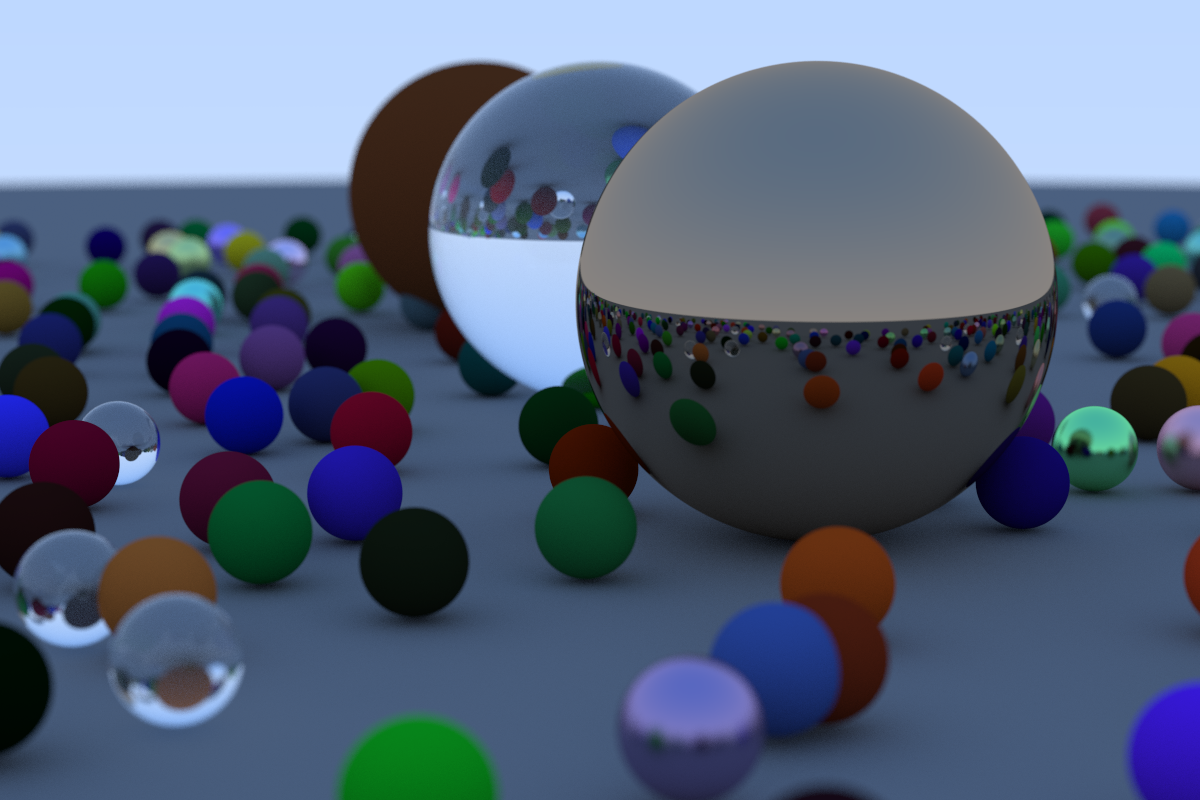
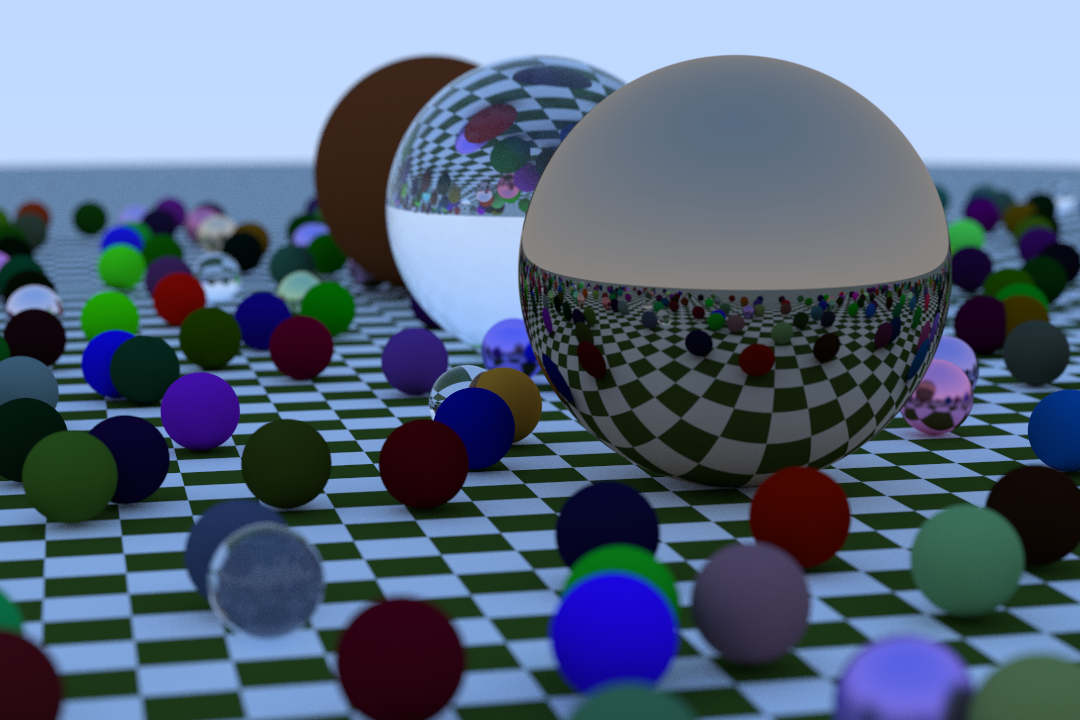
Add Checker texture

diff --git a/src/main.rs b/src/main.rs
@@ -15,6 +15,7 @@ use shimmer::renderer::Renderer;
 use glam::{dvec3, DVec3};
 
 use rand::random;
+use shimmer::textures::checker::Checker;
 use std::rc::Rc;
 use std::time::Instant;
 
@@ -53,7 +54,11 @@ fn main() {
 fn random_spheres() -> HittableList {
     let mut world = HittableList::new();
 
-    let material_ground = Rc::new(Lambertian::from_color(dvec3(0.5, 0.5, 0.5)));
+    let material_ground = Rc::new(Lambertian::new(Rc::new(Checker::from_color(
+        10.0,
+        dvec3(0.2, 0.3, 0.1),
+        dvec3(0.9, 0.9, 0.9),
+    ))));
     world.add(Rc::new(Sphere::new(
         DVec3::new(0.0, -1000.0, 0.0),
         1000.0,
@@ -117,7 +122,11 @@ fn random_spheres() -> HittableList {
 fn random_spheres_moving() -> HittableList {
     let mut world = HittableList::new();
 
-    let material_ground = Rc::new(Lambertian::from_color(dvec3(0.5, 0.5, 0.5)));
+    let material_ground = Rc::new(Lambertian::new(Rc::new(Checker::from_color(
+        10.0,
+        dvec3(0.2, 0.3, 0.1),
+        dvec3(0.9, 0.9, 0.9),
+    ))));
     world.add(Rc::new(Sphere::new(
         DVec3::new(0.0, -1000.0, 0.0),
         1000.0,

diff --git a/src/textures/checker.rs b/src/textures/checker.rs
@@ -1,0 +1,37 @@
+use std::rc::Rc;
+
+use glam::DVec3;
+
+use super::{solid_color::SolidColor, texture::Texture};
+
+pub struct Checker {
+    scale: f64,
+    even: Rc<dyn Texture>,
+    odd: Rc<dyn Texture>,
+}
+
+impl Checker {
+    pub fn new(scale: f64, even: Rc<dyn Texture>, odd: Rc<dyn Texture>) -> Checker {
+        Checker { scale, even, odd }
+    }
+
+    pub fn from_color(scale: f64, even_color: DVec3, odd_color: DVec3) -> Checker {
+        Checker {
+            scale,
+            even: Rc::new(SolidColor::new(even_color)),
+            odd: Rc::new(SolidColor::new(odd_color)),
+        }
+    }
+}
+
+impl Texture for Checker {
+    fn value(&self, u: f64, v: f64, p: &glam::DVec3) -> glam::DVec3 {
+        let sines =
+            f64::sin(self.scale * p.x) * f64::sin(self.scale * p.y) * f64::sin(self.scale * p.z);
+        if sines.is_sign_negative() {
+            self.odd.value(u, v, p)
+        } else {
+            self.even.value(u, v, p)
+        }
+    }
+}

diff --git a/src/textures/mod.rs b/src/textures/mod.rs
@@ -1,2 +1,3 @@
+pub mod checker;
 pub mod solid_color;
 pub mod texture;

diff --git a/README.md b/README.md
@@ -10,7 +10,10 @@ Shimmer is a CPU-bound ray tracing library.
   * Lambertians
   * Dialectrics
   * Metals
-  * Extensible Material representation for users to define their own materials via trait implementation.
+  * Extensible Material trait representation.
+* Textures
+  * Procedural textures
+  * Extensible Texture trait representation.
 * Geometry
   * Motion Blur
 * BVH (Bounding Volume Hierarchy) implementation for fast ray collisions.
